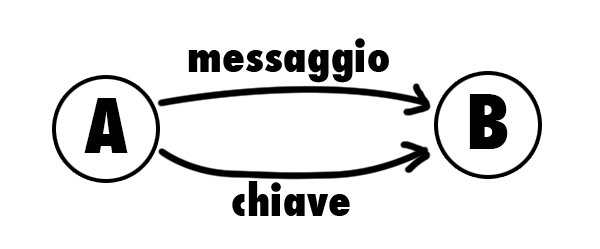
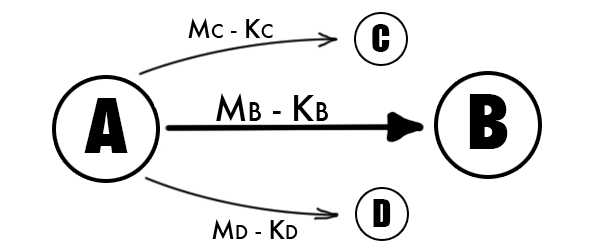
O chei
Just review and see if there’re typo

Changed region(s): [[0.21, 0.0281, 0.72, 0.9839], [0.33, 0.8715, 0.42, 0.9558], [0.24, 0.7028, 0.33, 0.7871]]

diff --git a/Tesi/Introduzione.tex b/Tesi/Introduzione.tex
@@ -6,23 +6,27 @@ La crittografia è un metodo per un utente di condividere in maniera sicura i pr
 Prima della crittografia a chiave pubblica, un metodo ampiamente utilizzato tra due utenti per comunicare informazioni confidenziale era quello di stabilire a priori un segreto comune e ben protetto che permettesse di decodificare le informazioni.\\
 Nonostante questo metodo possa esser accettabile per piccoli gruppi diventa obsoleto ed inutilizzabile in una infrastuttura molto grande come quella di Internet che conta miliardi di utenti.\\
 
-Quasi 40 anni fa, Diffie ed Hellman pubblicarono una rivoluzionaria idea racchiusa nel concetto di \emph{crittografia a chiave pubblica}:\\
-{ \itshape due gruppi possono comunicare in maniera sicura senza dover accordarsi su un segreto comune.}
+Quasi 40 anni fa, Diffie ed Hellman pubblicarono una rivoluzionaria idea racchiusa nel concetto di \textbf{crittografia a chiave pubblica}:\\
+{ \itshape ``due gruppi possono comunicare in maniera sicura \emph{senza} dover accordarsi su un segreto comune.''}
 
 \vspace{0.4cm}
 
-Al giorno d'oggi la crittografia a chiave pubblica è uno strumento fondamentale e il suo utilizzo è centrale per la communicazione sicura via web, alla cifratura di dischi e per la possibilità di garantire l'autenticità di persone.\\
-Comunque vi sono delle particolarità:
+Al giorno d'oggi la crittografia a chiave pubblica è uno strumento fondamentale e il suo utilizzo è centrale per la communicazione sicura via web, alla cifratura di dispositivi d'archiviazione e per la possibilità di garantire l'autenticità di persone mediante firma digitale.
+
+
+Vi sono delle particolarità per questa tipologia di crittografia:
 \begin{itemize}
 	\item Crittare è un metodo per inviare un messggio ad \textbf{una singola} entità che detiene una chiave segreta
 	\item L'accesso ai dati cifrati è totale o nulla : una persona può decifrare e leggere completamente il messaggio \textbf{o} non può nemmeno decifrarlo.
 \end{itemize}
 
-La combinazione di questi due punti ci porta a dover rispondere ad un problema molto particolare:
+\vspace{1cm}
+Siamo interessati a risolvere un problema formulabile come:
 
 \begin{center}
 {\itshape È possibile costruire un sistema crittografico dove sia possibile crittare \textbf{una} volta sola il messaggio per poi distribuirla a più persone creando la possibilità di filtrare il contenuto in base alla persona che cerca di decifrarla?}
 \end{center}
+\newpage
 
 Se dovessimo utilizzare la normale assunzione DH con chiavi pubbliche, avremo ad esempio un sistema di questo tipo:
 
@@ -30,58 +34,64 @@ Se dovessimo utilizzare la normale assunzione DH con chiavi pubbliche, avremo ad
 \begin{minipage}[c]{0.9\textwidth}
 		\centering
 		\includegraphics[keepaspectratio,width=\textwidth]{keying.png}\\
-		{\small\scshape Un utente, tante chiavi per ogni utente}
+		{\small\scshape Un messaggio $M$ deve esser criptato con la chiave $K_I$ per esser mandata all'utente $I$}
 \end{minipage}
 \end{center}
 
 Dove siamo costretti ad avere molte chiavi diverse per permettere la comunicazione verso ogni destinatario. Il messaggio viene crittato tante volte quanti sono i destinatari.\\[0.3cm]
 
 Per questo motivo, Sahai and Waters \cite{sahai} fanno i primi passi per risolvere il problema intriducendo il concetto di ABE : Attribute Based Encryption.\\
-Questo schema prevede la definizione di un insieme di attributi che funzioneranno da etichettatura per ogni messaggio crittato.\\
-La chiave di decifratura (privata) verrà calcolata per ogni utente in base agli attributi che quell'utente ha diritto a visionare: viene così creata una vera e propria policy d'accesso differenziata per ogni utente.\\
+Questo schema prevede la definizione di un insieme di attributi che funzioneranno da \emph{etichettatura} per ogni messaggio crittato.\\
+La chiave di decifratura verrà calcolata per ogni utente in base ad una combinazione logica di attributi ben precisa: viene così creata una vera e propria policy d'accesso differenziata per ogni utente.\\[0.4cm]
 A questo punto, l'utente è in grado di crittare il messaggio \emph{attaccandogli} gli attributi che preferisce. Questi attributi definiranno quali utenti potranno decifrare il messaggio: le chiavi che rispettano la policy, utilizzando gli attributi del messaggio, hanno diritto e possono decrittarlo.\\[0.2cm]
 
 \begin{center}
 \begin{minipage}[c]{0.9\textwidth}
 		\centering
 		\includegraphics[keepaspectratio,width=\textwidth]{pairing.png}\\
-		{\small\scshape Un utente, un messaggio con le etichette, tanti utenti caratterizzati}
+		{\small\scshape Un unico messaggio etichettato con gli attributi viene mandato a tutti gli utenti. Solo gli utenti che detengono una chiave adatta possono leggere il messaggio.}
 \end{minipage}
 \end{center}
 
-\vspace{0.3cm}
+\newpage
 
-La nascità dei servizi \emph{cloud} aumenta la necessità di risolvere il problema difficilmente risolvibile dalla crittografia a chiave publica.\\
-Un esempio concreto: consideriamo un servizio di memorizzazione in cloud che immagazzina immagini. Le forze dell'ordine potrebbero aver bisogno di cercare sul cloud un immagine contenente un particolare volto.\\
-Il cloud necessita una chiave segreta per l'occasione che sia in grado di decifrare le immagini che contengono la faccia cercata ma che non visualizzi il resto delle immagini.\\[0.2cm]
+La nascità e lo sviluppo dei servizi \emph{cloud} sono focalizzati sul problema iniziale, difficilmente risolvibile dalla crittografia a chiave publica.\\
+Consideriamo un esempio concreto: \\
+{\itshape un servizio di memorizzazione in cloud che immagazzina immagini per i diversi utenti registrati.\\
+Le forze dell'ordine potrebbero aver bisogno di cercare sul cloud un immagine contenente un particolare volto.\\
+Il gestore del servizio di cloud ha bisogno di fornire una chiave segreta alle forze dell'ordne che sia in grado di decifrare le immagini che contengono la faccia cercata ma che \textbf{non} visualizzi il resto delle immagini per non compromettere la privacy degli utenti non indagati.}\\[0.1cm]
 
-Data la necessità di creare sistemi di crittografia che rispondessero a queste esigenze odierne, vi sono stati molti tentativi di una costruzione matematica che rispondesse alle esigenze. Quello studiato in questa tesi è \cite{kpabe}.\\
-Lo strumento principale tra tutte queste costruzioni è un pairing $e$ tra gruppi ciclici.\\
-Questo pairing deve avere proprietà particolari (vedi \ref{pairinge}).\\
-Esistono pairing molto complessi \cite{maas} \cite{benoit} tra cui il pairing di Tate e il pairing di Weil.\\[0.2cm]
+
+Data la necessità di creare sistemi di crittografia che rispondessero a queste esigenze, vi sono stati molti tentativi diversi di costruzione matematica che rispondesse alle esigenze. \\
+Lo strumento principale tra tutte queste costruzioni è un pairing $e$ tra gruppi ciclici. Questo pairing deve avere proprietà particolari (vedi \ref{pairinge}).\\
+Esistono pairing complessi \cite{maas} \cite{benoit} tra cui il pairing di Tate e il pairing di Weil.\\[0.2cm]
 Nello studio di questa tesi, sono stati evidenziati due diverse metodologie di crittografia:
 \begin{itemize}
-	\item \textbf{Identity Based Encryption} : Un garante genera per ogni utente delle chiavi private che vengono concesse unicamente se l'utente viene autenticato. A questo punto ogni utente autenticato avrà una propria chiave privata e pubblica dove questa seconda sarà possibile calcolarla on-the-fly senza dover esser salvata. Con queste chiavi è possibile comunicare firmando e crittando i messaggi.\\
+	\item \textbf{Identity Based Encryption} : Un garante genera per ogni utente delle chiavi private che vengono concesse unicamente se l'utente viene autenticato. A questo punto ogni utente autenticato avrà una propria chiave privata e pubblica dove questa seconda sarà possibile calcolarla on-the-fly utilizzando una \emph{frase caratteristica} come il numero di telefono o un indirizzo email. Con queste chiavi è possibile comunicare firmare e crittare i messaggi per poter esser communicati.\\
 	Questo metodo, ideato temporalmente prima degli altri, è molto problematico e risente di difficoltà pratiche che lo rendono inutilizzabile per un applicazione reale.
-	\item \textbf{Attribute Based Encryption} : Il sistema conosce a priori \emph{quanti} attributi gestirà. Da questi vengono create delle chiavi pubbliche che sono l'insieme di \emph{sottochiavi} per ogni singolo attributo. In questo modo ogni messaggio che viene cifrato, subisce una trasformazione \emph{neutra} rispetto agli attributi quando questi saranno fondamentali per decretare o meno l'autorizzazione a decifrare.
+	\item \textbf{Attribute Based Encryption} : Il sistema conosce a priori \emph{quanti} attributi gestirà. Da questi vengono create delle chiavi pubbliche che sono l'insieme di \emph{sottochiavi} per ogni singolo attributo. In questo modo ogni messaggio che viene cifrato, subisce una trasformazione \emph{neutra} rispetto agli attributi quando questi diventeranno fondamentali per decretare o meno l'autorizzazione della chiave per decifrare.
 \end{itemize}
 
-Nella prima, l'identità di una persona definisce la chiave rendendo il modello molto simile alla crittografia a chiave pubblica con la capacità di risolvere il problema principale in maniera teorica seppur con qualche problema pratico.\\
-Nel secondo, gli attributi non definiscono chiavi ma bensì delle policy d'accesso. In questo modo chiavi e attributi si separano concettualmente risolvendo il problema.\\
-Altre differenze dettagliate si possono trovare a \ref{ibeabe}\\[0.2cm]
+Nella prima tipologia, l'identità di una persona definisce la chiave rendendo il modello molto simile alla crittografia a chiave pubblica con la capacità di risolvere il problema principale seppur con qualche problema pratico: quando l'utente ha bisogno di rinnovare la propria coppia di chiavi e quella pubblica non può esser trovata da altre persone utilizzando la frase caratteristica originale poiché essa fornisce la vecchia chiave pubblica.\\
+Nel secondo, gli attributi non definiscono chiavi ma bensì delle policy d'accesso. In questo modo chiavi e attributi si separano concettualmente risolvendo il problema.
 
-Questo schema crittografico non è ancora pienamente conosciuto ed è per questo difficile definire e garantire un livello di sicurezza adatto per poter esser utilizzato nella quotidianità, come spiegato a \ref{secur}.\\[0.2cm]
+\newpage
 
-In questa tesi verrà studiato lo schema ABE descritto in \cite{kpabe}.
+Altre differenze dettagliate sulla differenza dei due schemi si può trovare in \ref{ibeabe}\\[0.2cm]
+
+Questo schema crittografico non è ancora pienamente conosciuto ed è per questo difficile definire e garantire un livello di sicurezza adatto per poter esser utilizzato nella quotidianità, come spiegato in \ref{secur}.\\[0.2cm]
+
+In questa tesi verrà studiato lo schema ABE descritto in \cite{kpabe} nel seguente modo:
+\begin{itemize}
+	\item \textbf{Analisi del problema} e definizione astratta degli algoritmi utilizzati e della struttura d'accesso che vogliamo utilizzare.\\
+	Definizione dell'algoritmo d'attacco per la definizione dell' assunzione decisionale bilineare di Diffie-Hellman.
+	\item \textbf{Costruzione della struttura} d'albero e definizione analitica dei vari algoritmi. Effettiva costruzione dello schema crittografico e dimostrazione della sua correttezza d'utilizzo.
+	\item \textbf{Dimostrazione dell'assunzione Diffie-Hellman}
+\end{itemize}
+\vspace{0.4cm}
+
+Successivamente è presente un capitolo in cui vengono esposti gli strumenti utilizzati per la costruzione di un esempio con commenti comparativi con strutture e mappe più complesse. È stato anche brevemente discusso in \ref{security} un possibile schema d'attacco con un relativo commento sulla complessità che comporta lo schema studiato.\\[0.2cm]
+
+Nell'ultimo capitolo sono stati aggiunti dei commenti sull'efficenza e sulla sicurezza del metodo per poi confrontarlo con altri schemi trovati.
 
 
-
-
-
-
-
-
-% \begin{defi}
-% Coefficente di Lagrange
-% \[ \Delta_{i,s}(x) = \prod_{j\in S , j \neq i} \dfrac{x-j}{i-j} \]
-% \end{defi}

diff --git a/Tesi/KPABECostruzione.tex b/Tesi/KPABECostruzione.tex
@@ -1,17 +1,17 @@
 \subsection{Costruzione del sistema} 
 
 % Le chiavi private sono identificate da una struttura d'accesso ad albero dove ogni nodo interno è una funzione di soglia e le foglie sono gli attributi. \\
-Un utente potrà decifrare un messaggio cifrato con una data chiave privata unicamente se il messaggio soddisfa la policy d'accesso della chiave.\\[0,5cm]
+Un utente potrà decifrare un messaggio cifrato con una data chiave privata unicamente se il messaggio soddisfa la policy d'accesso della chiave.\\[0.3cm]
 
-\begin{defi}
-Sia \evil{T} un \textbf{albero} rappresentante la nostra struttura d'accesso $\mathbb{A}$.\\
+\begin{defi}\-\\
+Sia \evil{T} un \textbf{albero} rappresentante la nostra struttura d'accesso $\mathbb{A}$.\\[0.1cm]
 Ogni non-foglia dell'albero rappresenta una funzione di soglia, descritta dai suoi figli e da un valore di soglia.\\
 Se $\num_x$ è il numero di figli di un dato nodo $x$ e $k_x$ e il suo valore di soglia, allora $0 < k_x \leq \num_x$.\\
 Quando $k_x = 1$, la funzione agisce come un OR mentre per $k_x = \num_x$ essa diventa una AND.\\
-Ogni foglia è descritta dal suo attributo e una soglia di $k_x = 1$.\\
+Ogni foglia è descritta dal suo attributo e una soglia di $k_x = 1$.\\[0.2cm]
 Nel nostro albero ci è possibile definire un ordine rispetto ai figli di un nodo $x$ che li ordina da $1$ a $\num_x$. Questi indici sono univocamente assegnati ai nodi per ogni chiave d'accesso arbitraria.
 \end{defi}
-
+\vspace{0.3cm}
 
 Per semplificare il lavoro con gli alberi, definiamo delle funzioni:
 \begin{itemize}
@@ -21,11 +21,11 @@ Per semplificare il lavoro con gli alberi, definiamo delle funzioni:
 \item $\mathcal{T}_x$ : è il sottoalbero di \evil{T} con radice $x$ 
 \end{itemize}
 
-\vspace{0.8cm}
+\vspace{0.3cm}
 A questo punto, creiamo un algoritmo che ci permetta di verificare se un dato insieme di attributi può accedere o meno nell'albero.
+\vspace{0.5cm}
 
-\vspace{0.2cm}
-\textbf{Soddisfare un albero d'accesso}\\
+\textbf{ \large Soddisfare un albero d'accesso}\\[0.1cm]
 Denotiamo con 
 \begin{center}
 $\mathcal{T}_x(\gamma) = 1$ se e solo se l'insieme d'attributi $\gamma$ soddisfa l'albero d'accesso $\mathcal{T}_x$
@@ -42,18 +42,19 @@ cioè viene garantito l'accesso unicamente se il numero di figli che autorizzano
 
 Ora prendiamo un $G_1$ gruppo bilineare di ordine $p$ e sia $g$ un generatore di $G_1$.\\
 %Un parametro di sicurezza $k$ determinerà la grandezza dei gruppi.\\ % Non è utile nella tesi e può esser richiamato
-In aggiunta consideriamo $e : G_1 \times G_1 \rightarrow G_2$ mappa bilineare che soddisfa :\label{pairinge}
+\begin{defi}\label{pairinge}
+$e : G_1 \times G_1 \rightarrow G_2$ mappa bilineare che soddisfa :
 \begin{enumerate}
 \item $e$ è bilineare rispetto al prodotto
 \[ \forall_{u,v \in G_1}, a,b \in \mathbb{Z}_p : e(u^a,v^b) = e(u,v)^{ab} \]
 \item $e$ è non degenere \[e(g,g) \neq 1\]
 \item $e$ è velocemente computabile
 \end{enumerate}
-
+\end{defi}
 
 \vspace{0.8cm}
 
-\textbf{Creazione sistema}
+\textbf{\Large Creazione sistema}
 
 \begin{description}
 \item[Impostazione :]Definiamo l'universo di attributi $\mathcal{U} = \{1,\cdots,n\}$. Ora, per ogni attributo $i \in \mathcal{U}$, scegliamo uniformemente a caso un elemento $t_i$ di $\mathbb{Z}_p$. Allo stesso modo prendiamo un $y$.\\
@@ -61,8 +62,10 @@ I parametri pubblici \pk pubblicabili sono
 \[ T_1 = g^{t_1} , T_2 = g^{t_2} , \cdots , T_n = g^{t_n} , Y = e(g,g)^y \]\label{pubchiavi}
 mentre la chiave principale \mk è
 \[ t_1 , t_2 , \cdots , t_n , y \]
+\vspace{0.1cm}
 \item[Criptare :] Partendo da $(M , \gamma, \text{ \pk })$, cripto $M \in G_2$ sotto un insieme di attributi $\gamma$ scegliendo un $s$ casualmente in $\mathbb{Z}_p$ e pubblico il testo cifrato come
 \[ E = (\gamma , E^\prime = MY^s , \{E_i = T_i^s \}_{i\in\gamma}) \]
+\vspace{0.1cm}
 \item[Generazione chiavi :] Partendo da $( \mathcal{T} , MK )$, l'algoritmo ci fornisce una chiave capace di decifrare il messaggio rispetto a $\gamma$ se e solo se $\mathcal{T}(\gamma) = 1$ cioè $\gamma$ è un insieme di attributi autorizzato.
 \begin{enumerate}
 \item Scelgo un polinomio $q_x$ per ogni nodo $x$, incluse le foglie, dell'albero \evil{T}.\\
@@ -74,9 +77,10 @@ I polinomi sono scelti dall'alto al basso, partendo quindi dalla radice.
 \[ D_x = g^{\frac{q_x(0)}{t_i}} \qquad \text{ dove } i \in \att(x) \]
 \end{enumerate}
 L'insieme di tutte le chiavi di sopra forma la chiave di decriptazione $D$
-\item[Decifrare :] Partendo da $(E,D)$.\\
-Definiamo il nostro metodo di decifrazione mediante un algoritmo ricorsivo:\\
-Sia $\decrypt( E , D , x )$ in un elemento di $G_2$ oppure non è permesso calcolarlo e lo indicheremo con $\perp$. Sia $i = \att(x)$.
+\vspace{0.1cm}
+\item[Decifrare :] Partendo da $(E,D)$. Definiamo il nostro metodo di decifrazione mediante un algoritmo ricorsivo:\\
+Sia $\decrypt( E , D , x )$ in un elemento di $G_2$ oppure non è permesso calcolarlo e lo indicheremo con $\perp$.\\
+Sia $i = \att(x)$.
 \begin{itemize}
 \item Se $x$ è una foglia
 \[ \decrypt(E,D,x) = \begin{cases}
@@ -84,9 +88,12 @@ Sia $\decrypt( E , D , x )$ in un elemento di $G_2$ oppure non è permesso calco
 e(D_x,E_i) = e(g^{\frac{q_x(0)}{t_i}},g^{s\cdot t_i}) = e(g,g)^{q_x(0) \cdot s}
 \end{cases} \]
 \item Se $x$ non è una foglia :\\
-Per ogni nodo figlio $z$ di $x$, $F_z = \decrypt(E,D,z)$. Sia $S_x$\label{insiemedecript} un insieme arbitrario di dimensione $k_x$ di figli $z$ tali che $F_z \neq \perp$.\\
-Se non esiste alcun insieme di questo tipo, allora la funzione ritorna $\perp$.\\
-Altrimenti
+Per ogni nodo figlio $z$ di $x$, $F_z = \decrypt(E,D,z)$.\\
+Considero i coefficienti di Lagrange :
+\[ \Delta_{i,S}(x) = \prod_{j \in S , j \neq i} \frac{x-j}{i-j} \]
+
+Sia $S_x$\label{insiemedecript} un insieme arbitrario di dimensione $k_x$ di figli $z$ tali che $F_z \neq \perp$.\\
+Se non esiste alcun insieme di questo tipo, allora la funzione ritorna $\perp$. Altrimenti
 \begin{align*}
 F_x &= \prod_{z \in S_x} F_z^{\Delta_{i,S_x^\prime}(0)} \qquad \text{ dove }
 \begin{matrix}

diff --git a/Tesi/KPABEStruttura.tex b/Tesi/KPABEStruttura.tex
@@ -4,18 +4,18 @@ Consideriamo un insieme di parties $\{P_1, \cdots , P_n \}$ su cui costruiamo un
 In questo modo, un insieme $A$ è autorizzato dal sistema unicamente se è contenuto nella gerarchia $\mathbb{A}$.
 
 Nel nostro caso, il ruolo dei parties viene preso dagli attributi.
-
+\vspace{0.3cm}
 
 \begin{defi}
 Un \textbf{struttura d'accesso} è una collezione di sottoinsiemi non vuoti di parties $\mathbb{A} \subseteq 2^{\{ P_1,\cdots,P_n \}} \setminus \{ \emptyset \}$.\\
 Gli insiemi di $\mathbb{A}$ sono detti \textbf{insiemi autorizzati} e gli insiemi non in $\mathbb{A}$ sono detti \textbf{insiemi non autorizzati}.
 \end{defi}
-
+\vspace{0.3cm}
 \begin{defi}
 Una collezione $\mathbb{A} \subseteq 2^{\{P_1,\cdots,P_n\}}$ è detta \textbf{monotona} se per ogni $B,C$ sottoinsiemi di $\{ P_1,\cdots,P_n \}$ con $B \subseteq C$ e $B \in \mathbb{A}$ allora $C \in \mathbb{A}$.
 \end{defi}
 
-Nella nostra trattazione useremo sempre strutture d'accesso monotone.\\[0.8cm]
+Nella nostra trattazione useremo sempre strutture d'accesso monotone.\\[0.7cm]
 
 
 
@@ -41,24 +41,28 @@ Per poter valutare la sicurezza del sistema, si definisce un modello \textbf{sel
 \item[Fase 2 :] Come fase 1.
 \item[Guess :] \evil{E} ritorna una risposta $b^\prime$ rispetto a $b$
 \end{description}
+\vspace{0.2cm}
 
 Mediante questo gioco, il vantaggio dell'avversario \evil{A} è definito come \[\left\lvert \mathbb{P}(b = b^\prime) - \frac{1}{2}\right\rvert\]
+
+\vspace{0.3cm}
 
 \begin{defi}
 Uno schema KP-ABE è \textbf{sicuro} in un modello di sicurezza selective-set se ogni avversario a tempo polinomiale ha al massimo un vantaggio trascurabile nel gioco selective-set.
 \end{defi}
 
 dove definiamo
-\begin{defi}
-Tratto da \cite[Def~1.2]{crittoalice}.\\
+
+\begin{defi}[Avversario a tempo polinomiale] \cite[Def 1.2]{crittoalice}\\
 Un avversario \evil{A} è detto \textbf{avversario a tempo polinomiale} se usa nella sua logica un certo grado di randomicità (\evil{A} è quindi probabilistico) e se l'esecuzione di \evil{A} termina in un numero di passi $t$ polinomiale rispetto alla lunghezza dell'input. 
 \end{defi}
 
 \vspace{0.5cm}
-Considerando la mappa bilineare non degenere $e:G_1 \times G_1 \rightarrow G_2$, il nostro obbiettivo è di dimostrare
 
-\begin{assu}[Decisionale Bilineare Diffie - Hellman]
-Siano $a,b,c,z \in \mathbb{Z}_p$ scelti casualmente e sia $g$ un generatore di $G_1$ ciclico dove $p$ è l'ordine di $G_1$\\
+Considerando la mappa bilineare non degenere $e:G_1 \times G_1 \rightarrow G_2$, il nostro obbiettivo è di dimostrare
+\vspace{0.2cm}
+\begin{assu}[Bilineare Decisionale  Diffie - Hellman]
+\-\\Siano $a,b,c,z \in \mathbb{Z}_p$ scelti casualmente e sia $g$ un generatore di $G_1$ ciclico dove $p$ è l'ordine di $G_1$\\
 Nessun algoritmo $\mathcal{B}$ a tempo polinomiale probabilistico può distinguere tra le tuple
 \[ (A = g^a , B = g^b , C = g^c , e(g,g)^{abc}) \qquad (A = g^a , B = g^b , C = g^c , e(g,g)^{z}) \]
 con al più un vantaggio trascurabile.\\

diff --git a/Tesi/Esempio.tex b/Tesi/Esempio.tex
@@ -8,8 +8,8 @@ Scegliamo il gruppo ciclico $\mathbb{Z}_{p}$ con l'operazione $+$ e definiamo la
 Dove per $g^a$ intendiamo $a$ volte $g$.\\
 
 
-Un problema è la necessità di conoscere il valore $a$ tale che $g^a$ è il nostro valore scelto che risulta il logaritmo discreto che deve risultare difficile da calcolare per esser sicuro.\\
-Questo pairing è banale poiché la complessità del logaritmo discreto $h^a$ è equivalente ad eseguire l'algoritmo di euclide esteso per risolvere $a \times h + j \times p = k \times h^a$ trovando $j,k$.\\
+Un problema è la necessità di conoscere il valore $a$ tale che $g^a$ è il nostro valore scelto. Questo risulta calcolare il logaritmo discreto che deve risultare difficile da calcolare per esser sicuro.\\
+Questo pairing è quindi banale poiché la complessità del logaritmo discreto $h^a$ è equivalente ad eseguire l'algoritmo di Euclide esteso per risolvere $a \times h + j \times p = k \times h^a$ trovando $j,k$.\\
 
 
 Per utilizzi più sicuri e concreti vengono utilizzate curve ellittiche su campi finiti. Su queste viene creato un pairing sfruttando caratteristiche proprie delle curve ellittiche.\\
@@ -46,7 +46,7 @@ In questo modo, richiamando {\scshape generaPolinomi}($r$ radice dell'albero, $s
 
 Osserviamo che l'effettiva chiave privata che viene data all'utente è della forma $D = g^{\frac{q_x(0)}{t_i}}$ dove ci focaliziamo su $t_i$.\\
 In questa situazione, dobbiamo trovare la radice $t_i$-esima di $g$. Per rendere efficente l'utilizzo del sistema, è necessario tener conto di questo \emph{``problema''}.\\
-Nell'esempio semplificato, il calcolo della radice viene eseguito mediante l'algoritmo esteso di Euclide:
+Nell'esempio descritto in questa tesi, il calcolo della radice viene eseguito mediante l'algoritmo esteso di Euclide:
 
 \begin{center}
 \begin{tikzcd}
@@ -64,7 +64,7 @@ In questo modo troviamo la radice in una maniera efficiente.
 
 
 Per come è descritto il sistema, l'utente \textbf{non} è a conoscenza del gruppo $G_1$ su cui è definita la mappa bilineare ma conosce unicamente $G_2$ su cui esegue le operazioni per decrittare i messaggi.\\
-Per questo motivo un possibile attacco risulta molto articolato:
+Per questo motivo un possibile attacco risulta molto articolato:\label{security}
 \begin{enumerate}
    \item\textbf{ Logaritmo discreto su $G_2$}\\
    Si ricava il generatore $h$.

diff --git a/Tesi/KPABEDH.tex b/Tesi/KPABEDH.tex
@@ -2,12 +2,12 @@
 \subsection{Assunzione Diffie - Hellman}
 
 \begin{thm}
-Se un avversario può rompere lo schema in un modello ABE Selective-Set, allora un simulatore può esser costruito per giocare al gioco Decisional Bilinear Diffie Hellman con un vantaggio non trascurabile.
+Se un avversario può rompere lo schema in un modello ABE Selective-Set, allora un simulatore può esser costruito per giocare al gioco Decisionale Bilineare Diffie Hellman con un vantaggio non trascurabile.
 \begin{proof}
 Per dimostrare il teorema, supponiamo esista un avversario \evil{A} a tempo polinomiale che può rompere lo schema con un vantaggio $\epsilon$.\\
-Costruiamo quindi un simulatore \evil{B} capace di giocare al gioco D-BDH con un vantaggio di $\epsilon / 2$ in questo modo :\\[0,5cm]
+Costruiamo quindi un simulatore \evil{B} capace di giocare al gioco D-BDH con un vantaggio di $\epsilon / 2$ in questo modo :\\[0,2cm]
 
-Facciamo scegliere allo sfidante i gruppi $G_1, G_2$ con una mappa $e$ efficente e un generatore $g$.\\
+Facciamo scegliere allo sfidante i gruppi $G_1, G_2$ con una mappa $e$ efficente che rispetta \ref{pairinge} e un generatore $g$.\\
 Successivamente il simulatore lancia una moneta $\mu$ di cui risultato non viene rivelato allo sfidante.\\
 Se $ \mu = 0$ allora viene scelto $(A,B,C,Z) = (g^a,g^b,g^c,e(g,g)^{abc})$ altrimenti $(A,B,C,Z) = (g^a,g^b,g^c, e(g,g)^z)$ per dei valori $a,b,c,z$ casuali.\\
 Assumiamo l'insieme degli attributi \evil{U} definito.

diff --git a/Tesi/abstract.tex b/Tesi/abstract.tex
@@ -1,6 +1,14 @@
 
+
+
+\vspace*{\fill}
 \begin{center}
+
+\begin{minipage}{0.9\textwidth}
 \textbf{Abstract}\\
-Ultra-Riassunto:\\
-Citare \cite{kpabe} e poi riassumenre l'intro
+Lo scopo della tesi è di analizzare uno schema di critografia basato sul pairing tra gruppi ciclici che permetta granularità in fase di decrittazione. È stato studiato il problema considerando gli attributi come metodo per classificare i messaggi e su cui poter costruire una struttura d'accesso capace di differenziare i diversi destinatari fornendo loro una chiave privata che decifrasse unicamente i messaggi con determinati attributi. Una volta definita la struttura generale, sono stati sviluppati i vari algoritmi per poter dimostrazione l'assunzione bilineare decisionale Diffie-Hellman.\\
+È stato descritto un semplice esempio funzionante del metodo con coi è stata creata un'interfaccia interattiva con cui è possibile vedere i vari passaggi del metodo. Alla fine sono stati inseriti dei commenti sull'efficacia e sulla adoperabilità del metodo nella realtà.
+\end{minipage}
+
 \end{center}
+\vfill % equivalent to \vspace{\fill}

diff --git a/Tesi/KPABE.tex b/Tesi/KPABE.tex
@@ -25,7 +25,7 @@ Questa famiglia può esser suddivisa in due sotto-famiglie che si differenziano 
 \vspace{0,8cm}
 \end{minipage}
 
-In entrambi i casi, possiamo caratterizzare\cite{maya3} queste famiglia in base ai gruppi su cui agisce la mappa bilineare :
+In entrambi i casi, possiamo caratterizzare \cite{maya3} queste famiglie in base ai gruppi su cui agisce la mappa bilineare :
 \begin{itemize}
 	\item $G_1 = G_2$ e di ordine $q$ primo
 	\item $G_1 \neq G_2$ entrambi di ordine $q$ primo ed esiste un isomorfismo tra loro
